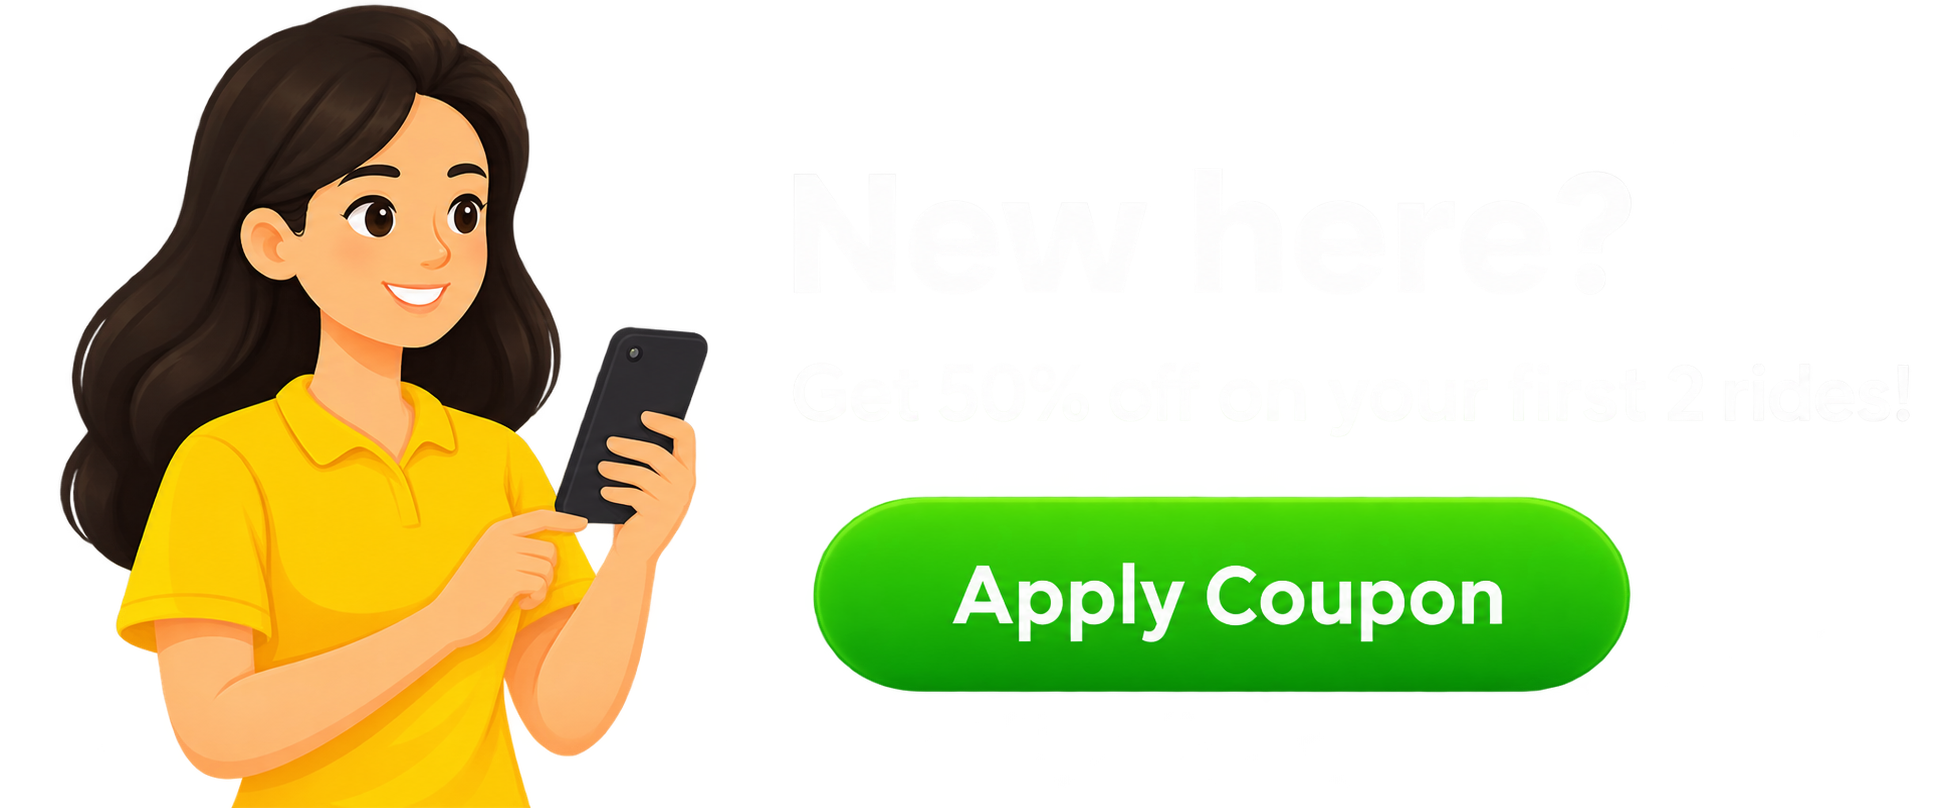
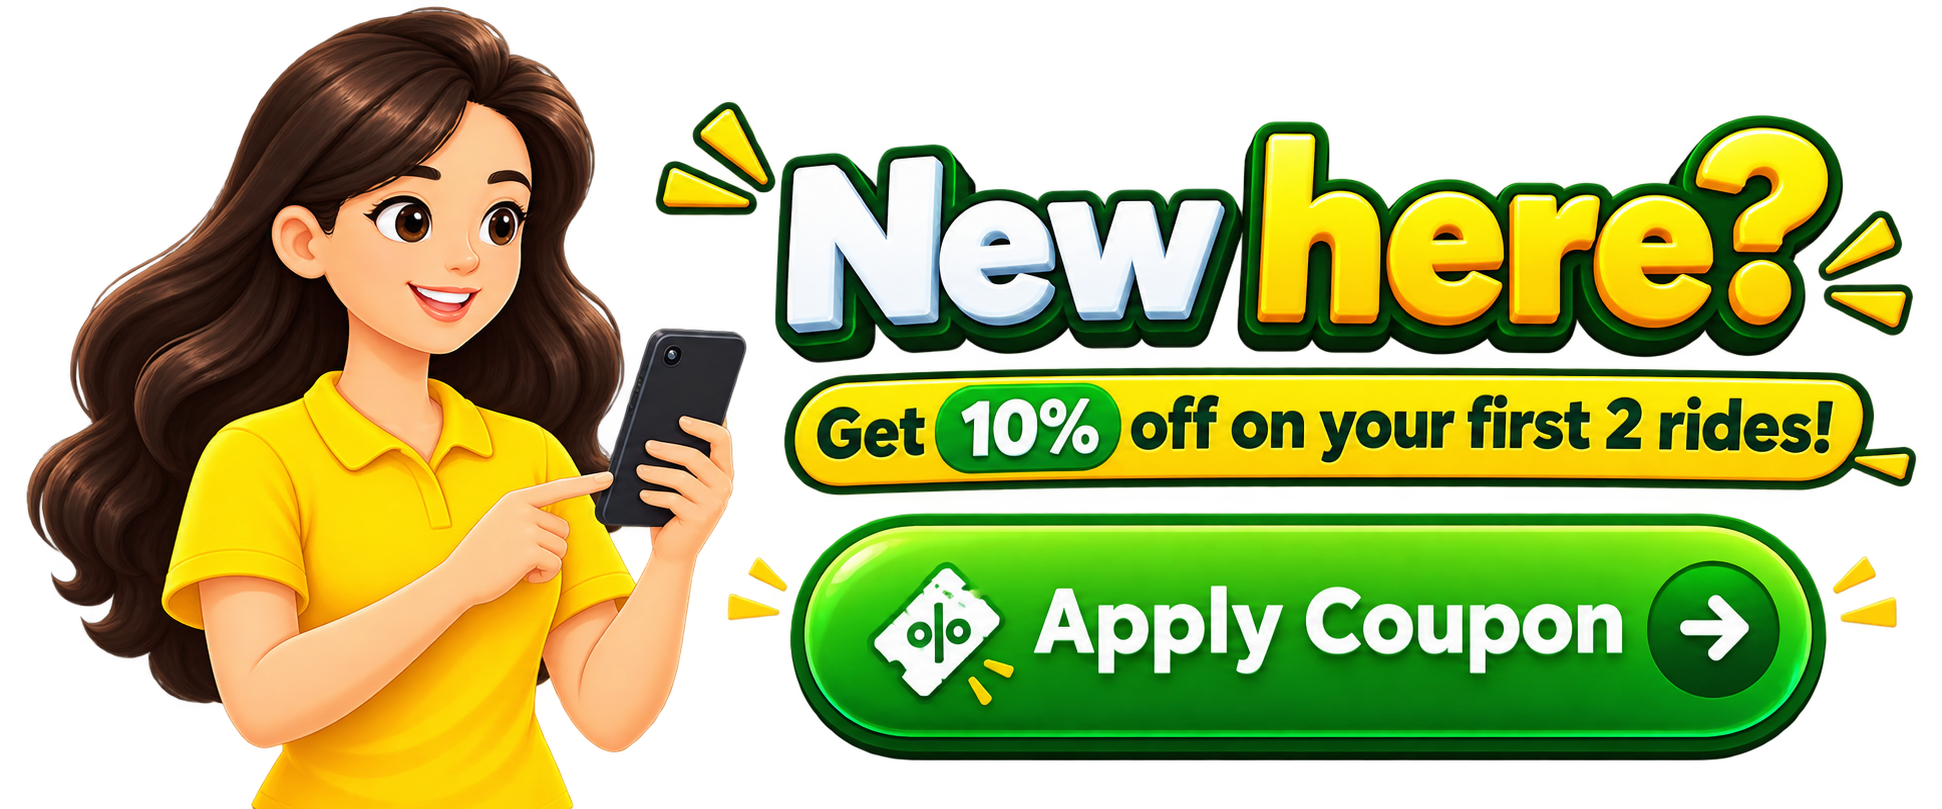
Updated img and faq

diff --git a/src/constants/faqs.ts b/src/constants/faqs.ts
@@ -1,10 +1,43 @@
 export const FAQS = [
   {
     question: "How do I book a ride with Ghumakkadh?",
-    answer: "Simply open our app, set your pickup and drop-off locations, choose your ride option, and confirm.",
+    answer:
+      "Simply open the Ghumakkadh app, set your pickup and drop-off locations, select your preferred ride option (Bike, Auto, Cab, or Premium), and tap confirm to match with a nearby driver.",
   },
   {
-    question: "Are the drivers verified?",
-    answer: "Yes, all Ghumakkadh drivers undergo strict background checks and verification before onboarding.",
+    question: "Are the drivers verified and safe?",
+    answer:
+      "Yes, 100%. Every Ghumakkadh driver partner undergoes strict background verification, document checks, and safety onboarding before being authorized on the platform.",
+  },
+  {
+    question: "What payment methods are accepted?",
+    answer:
+      "We support multiple payment options including UPI (Google Pay, PhonePe, Paytm), Credit & Debit cards, Net Banking, Ghumakkadh Wallet, as well as Cash payments directly to the driver.",
+  },
+  {
+    question: "Does Ghumakkadh charge surge pricing?",
+    answer:
+      "No! Ghumakkadh features Fare Lock technology to ensure transparent, upfront fares without hidden surge pricing during peak hours or bad weather.",
+  },
+  {
+    question: "How does Ghumakkadh Parcel delivery work?",
+    answer:
+      "Select 'Parcel' in the app, enter recipient details, and a dedicated delivery captain will pick up and deliver your documents, gifts, or packages across the city with real-time GPS tracking.",
+  },
+  {
+    question: "How can I join as a Driver or Partner?",
+    answer:
+      "Download the 'Ghumakkadh Partner' app from Google Play or App Store, upload your driving license, vehicle RC, and identity proof to complete instant onboarding and start earning.",
+  },
+  {
+    question: "What safety features are available during a ride?",
+    answer:
+      "Our app includes a 24/7 Emergency SOS button, Start-Trip OTP verification, masked phone calls to protect privacy, live trip location sharing with family, and round-the-clock support.",
+  },
+  {
+    question: "What is the cancellation policy?",
+    answer:
+      "You can cancel your ride request free of charge within 3 minutes of driver acceptance. After that, a nominal cancellation fee applies to compensate the driver for fuel and travel time.",
   },
 ];
+

diff --git a/src/components/ui/FAQ.tsx b/src/components/ui/FAQ.tsx
@@ -3,8 +3,7 @@
 import React, { useState } from "react";
 import { Container, Section, Card, Heading } from "@/components/common";
 import { FAQS } from "@/constants/faqs";
-import { SectionHeading } from "./SectionHeading";
-import { ChevronDown } from "lucide-react";
+import { HelpCircle, ChevronDown } from "lucide-react";
 import { cn } from "@/lib/cn";
 
 export const FAQ: React.FC = () => {
@@ -13,11 +12,18 @@ export const FAQ: React.FC = () => {
   return (
     <Section id="faq" className="bg-transparent">
       <Container>
-        <SectionHeading
-          badge="FAQ"
-          title="Frequently Asked Questions"
-          subtitle="Everything you need to know about booking rides with Ghumakkadh"
-        />
+        <div className="flex flex-col items-start lg:items-center text-left lg:text-center max-w-2xl mx-auto w-full mb-12">
+          <div className="inline-flex items-center gap-2.5 sm:gap-3 bg-[#F5F9F6] dark:bg-white/10 text-[#1E293B] dark:text-white font-bold sm:font-extrabold text-sm sm:text-lg px-5 py-2 sm:px-6 sm:py-2.5 rounded-full shadow-sm border border-green-200/80 dark:border-white/20 transition-all hover:scale-105 cursor-pointer mb-4">
+            <HelpCircle className="w-5 sm:w-6 h-5 sm:h-6 text-[#3b9e02] dark:text-[#57E600]" />
+            <span className="tracking-wide">FAQ</span>
+          </div>
+          <h2 className="text-2xl sm:text-3xl lg:text-5xl font-black text-slate-900 dark:text-white tracking-tight transition-colors mb-3">
+            Frequently Asked Questions
+          </h2>
+          <p className="text-slate-600 dark:text-gray-300 text-base transition-colors">
+            Everything you need to know about booking rides with Ghumakkadh
+          </p>
+        </div>
         <div className="flex flex-col gap-4 max-w-3xl mx-auto">
           {FAQS.map((faq, index) => {
             const isOpen = openIndex === index;

diff --git a/src/app/(landing)/ride/RideSection.tsx b/src/app/(landing)/ride/RideSection.tsx
@@ -25,9 +25,9 @@ export const RideSection: React.FC<RideSectionProps> = ({ hideBadge = false }) =
 
             {/* Hero Badge */}
             {!hideBadge && (
-              <div className="inline-flex items-center gap-2 bg-green-100 dark:bg-[#F0FFEA] text-green-800 dark:text-green-700 font-bold text-[11px] px-3 py-1.5 rounded-full mb-6 uppercase tracking-wide">
-                <Car className="w-3.5 h-3.5" />
-                <span>Ride with Ghumakkadh</span>
+              <div className="inline-flex items-center gap-2.5 sm:gap-3 bg-[#F5F9F6] dark:bg-white/10 text-[#1E293B] dark:text-white font-bold sm:font-extrabold text-sm sm:text-lg px-5 py-2 sm:px-6 sm:py-2.5 rounded-full shadow-sm border border-green-200/80 dark:border-white/20 transition-all hover:scale-105 cursor-pointer mb-6">
+                <Car className="w-5 sm:w-6 h-5 sm:h-6 text-[#4eb902] dark:text-[#57E600]" />
+                <span className="tracking-wide">Ride with Ghumakkadh</span>
               </div>
             )}
 
@@ -81,7 +81,7 @@ export const RideSection: React.FC<RideSectionProps> = ({ hideBadge = false }) =
             </div>
 
             {/* Coupon Card */}
-            <div className="w-full max-w-[480px] mt-4 mx-auto xl:mx-0">
+            <div className="w-full max-w-[380px] sm:max-w-[410px] mt-4 mx-auto xl:mx-0">
               <img src="/images/Rider_img2.png" alt="Get 50% off on your first 2 rides!" className="w-full h-auto object-contain rounded-2xl shadow-sm" />
             </div>
           </div>

diff --git a/src/app/(landing)/features/FeaturesSection.tsx b/src/app/(landing)/features/FeaturesSection.tsx
@@ -104,9 +104,9 @@ export const FeaturesSection: React.FC = () => {
           {/* Left Column (6 Cols): Badge, Title, Subtitle, 4 Icons */}
           <div className="lg:col-span-6 flex flex-col items-start text-left">
             {/* Top Badge Pill */}
-            <div className="hidden lg:inline-flex items-center gap-2 bg-slate-200/80 dark:bg-white/5 backdrop-blur-md border border-slate-300 dark:border-white/10 text-slate-800 dark:text-white font-extrabold text-xs px-4 py-1.5 rounded-full shadow-sm mb-5 transition-colors">
-              <span className="text-[#4eb902] dark:text-[#57E600] text-sm"><Star className="w-4 h-4 fill-current" /></span>
-              <span>WHY CHOOSE US</span>
+            <div className="hidden lg:inline-flex items-center gap-2.5 sm:gap-3 bg-[#F5F9F6] dark:bg-white/10 text-[#1E293B] dark:text-white font-bold sm:font-extrabold text-sm sm:text-lg px-5 py-2 sm:px-6 sm:py-2.5 rounded-full shadow-sm border border-green-200/80 dark:border-white/20 transition-all hover:scale-105 cursor-pointer mb-5">
+              <span className="text-[#4eb902] dark:text-[#57E600]"><Star className="w-5 sm:w-6 h-5 sm:h-6 fill-current" /></span>
+              <span className="tracking-wide">Why Choose Us</span>
             </div>
 
             {/* H2 Title matching Screenshot exactly */}

diff --git a/src/app/(landing)/about/CompanyBehindSection.tsx b/src/app/(landing)/about/CompanyBehindSection.tsx
@@ -6,12 +6,11 @@ export const CompanyBehindSection: React.FC = () => {
     <section className="w-full bg-[#FAF7F2] dark:bg-[#0B0F19] pt-4 pb-16 md:pt-6 md:pb-24 px-4 sm:px-6 lg:px-8 transition-colors duration-300">
       <div className="max-w-7xl mx-auto">
         {/* Top Header Badge */}
-        <div className="flex items-center justify-center gap-2 mb-4">
-          <span className="h-[1px] w-6 bg-slate-300 dark:bg-gray-700"></span>
-          <span className="text-[11px] font-bold uppercase tracking-[0.25em] text-slate-500 dark:text-gray-400">
-            BUILT BY
-          </span>
-          <span className="h-[1px] w-6 bg-slate-300 dark:bg-gray-700"></span>
+        <div className="flex items-center justify-center mb-6">
+          <div className="inline-flex items-center gap-2.5 sm:gap-3 bg-[#F5F9F6] dark:bg-white/10 text-[#1E293B] dark:text-white font-bold sm:font-extrabold text-sm sm:text-lg px-5 py-2 sm:px-6 sm:py-2.5 rounded-full shadow-sm border border-green-200/80 dark:border-white/20 transition-all hover:scale-105 cursor-pointer">
+            <span className="w-2.5 h-2.5 rounded-full bg-[#4eb902] dark:bg-[#57E600]"></span>
+            <span className="tracking-wide">Built By</span>
+          </div>
         </div>
 
         {/* Section Heading */}

diff --git a/src/app/(landing)/ride-options/RideOptionsSection.tsx b/src/app/(landing)/ride-options/RideOptionsSection.tsx
@@ -74,9 +74,9 @@ export const RideOptionsSection: React.FC = () => {
         {/* Section Header matching Screenshot exactly */}
         <div className="flex flex-col items-start lg:items-center text-left lg:text-center max-w-2xl mx-auto w-full">
           {/* Badge Pill */}
-          <div className="inline-flex items-center gap-2 bg-[#F0FFEA] dark:bg-white/5 border border-transparent dark:border-white/10 text-[#1E293B] dark:text-white text-xs font-extrabold px-4 py-1.5 rounded-full shadow-sm mb-12 transition-colors">
-            <span className="text-[#3b9e02] dark:text-[#57E600]"><Users className="w-4 h-4" /></span>
-            <span>Ride for Everyone</span>
+          <div className="inline-flex items-center gap-2.5 sm:gap-3 bg-[#F5F9F6] dark:bg-white/10 text-[#1E293B] dark:text-white font-bold sm:font-extrabold text-sm sm:text-lg px-5 py-2 sm:px-6 sm:py-2.5 rounded-full shadow-sm border border-green-200/80 dark:border-white/20 transition-all hover:scale-105 cursor-pointer mb-12">
+            <span className="text-[#3b9e02] dark:text-[#57E600]"><Users className="w-5 sm:w-6 h-5 sm:h-6" /></span>
+            <span className="tracking-wide">Ride for Everyone</span>
           </div>
 
           {/* H2 Title */}

diff --git a/src/app/(landing)/drive/DriveIntroSection.tsx b/src/app/(landing)/drive/DriveIntroSection.tsx
@@ -14,8 +14,9 @@ export const DriveIntroSection: React.FC<DriveIntroSectionProps> = ({ hideBadge 
         {/* Section Header */}
         {!hideBadge && (
           <div className="flex flex-col items-start lg:items-center text-left lg:text-center w-full mb-6 lg:mb-8">
-            <div className="inline-flex items-center gap-2 bg-[#F5F9F6] dark:bg-white/5 text-[#1E293B] dark:text-white font-extrabold text-xs px-4 py-1.5 rounded-full shadow-sm border border-green-100/50 dark:border-white/10 transition-colors">
-              <img src="/images/mini.png" alt="Mini" className="w-6 h-4 object-contain" /> Driver
+            <div className="inline-flex items-center gap-2.5 sm:gap-3 bg-[#F5F9F6] dark:bg-white/10 text-[#1E293B] dark:text-white font-bold sm:font-extrabold text-sm sm:text-lg px-5 py-2 sm:px-6 sm:py-2.5 rounded-full shadow-sm border border-green-200/80 dark:border-white/20 transition-all hover:scale-105 cursor-pointer">
+              <img src="/images/mini.png" alt="Driver Car" className="w-8 sm:w-10 h-5 sm:h-7 object-contain" />
+              <span className="tracking-wide">Driver</span>
             </div>
           </div>
         )}

diff --git a/src/app/(landing)/parcel/ParcelIntroSection.tsx b/src/app/(landing)/parcel/ParcelIntroSection.tsx
@@ -14,8 +14,9 @@ export const ParcelIntroSection: React.FC<ParcelIntroSectionProps> = ({ hideBadg
         {/* Section Header */}
         {!hideBadge && (
           <div className="flex flex-col items-start lg:items-center text-left lg:text-center w-full mb-6 lg:mb-8 mt-8 lg:mt-12">
-            <div className="inline-flex items-center gap-2 bg-[#F5F9F6] dark:bg-white/5 text-[#1E293B] dark:text-white font-extrabold text-xs px-4 py-1.5 rounded-full shadow-sm border border-green-100/50 dark:border-white/10 transition-colors">
-              <span className="text-base">📦</span> Ghumakkadh Parcel
+            <div className="inline-flex items-center gap-2.5 sm:gap-3 bg-[#F5F9F6] dark:bg-white/10 text-[#1E293B] dark:text-white font-bold sm:font-extrabold text-sm sm:text-lg px-5 py-2 sm:px-6 sm:py-2.5 rounded-full shadow-sm border border-green-200/80 dark:border-white/20 transition-all hover:scale-105 cursor-pointer">
+              <span className="text-xl sm:text-2xl">📦</span>
+              <span className="tracking-wide">Ghumakkadh Parcel</span>
             </div>
           </div>
         )}

diff --git a/src/app/(landing)/testimonials/TestimonialsSection.tsx b/src/app/(landing)/testimonials/TestimonialsSection.tsx
@@ -42,9 +42,9 @@ export const TestimonialsSection: React.FC = () => {
         {/* Section Header matching Screenshot exactly */}
         <div className="flex flex-col items-start lg:items-center text-left lg:text-center max-w-2xl lg:mx-auto w-full">
           {/* Yellow Badge Pill */}
-          <div className="inline-flex items-center gap-2 bg-[#F0FFEA] text-[#1E293B] font-extrabold text-xs px-4 py-1.5 rounded-full shadow-sm mb-6">
-            <span><Heart className="w-4 h-4 fill-yellow-400 text-yellow-400" /></span>
-            <span>Testimonials</span>
+          <div className="inline-flex items-center gap-2.5 sm:gap-3 bg-[#F5F9F6] dark:bg-white/10 text-[#1E293B] dark:text-white font-bold sm:font-extrabold text-sm sm:text-lg px-5 py-2 sm:px-6 sm:py-2.5 rounded-full shadow-sm border border-green-200/80 dark:border-white/20 transition-all hover:scale-105 cursor-pointer mb-6">
+            <span><Heart className="w-5 sm:w-6 h-5 sm:h-6 fill-yellow-400 text-yellow-400" /></span>
+            <span className="tracking-wide">Testimonials</span>
           </div>
 
           {/* H2 Headline */}
